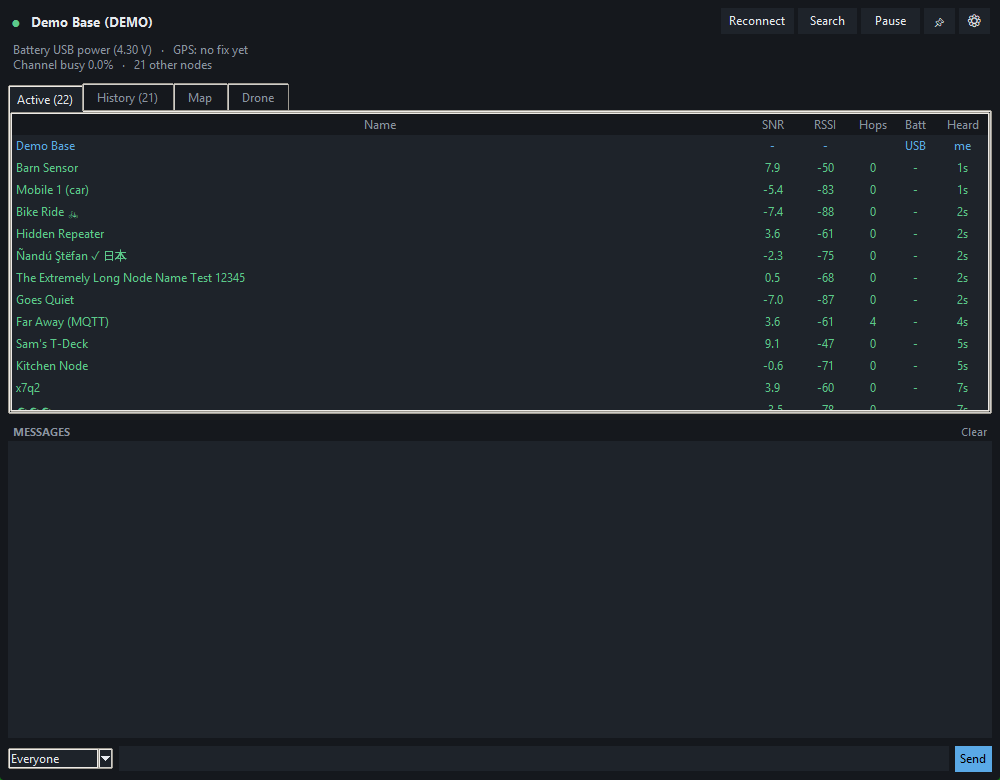
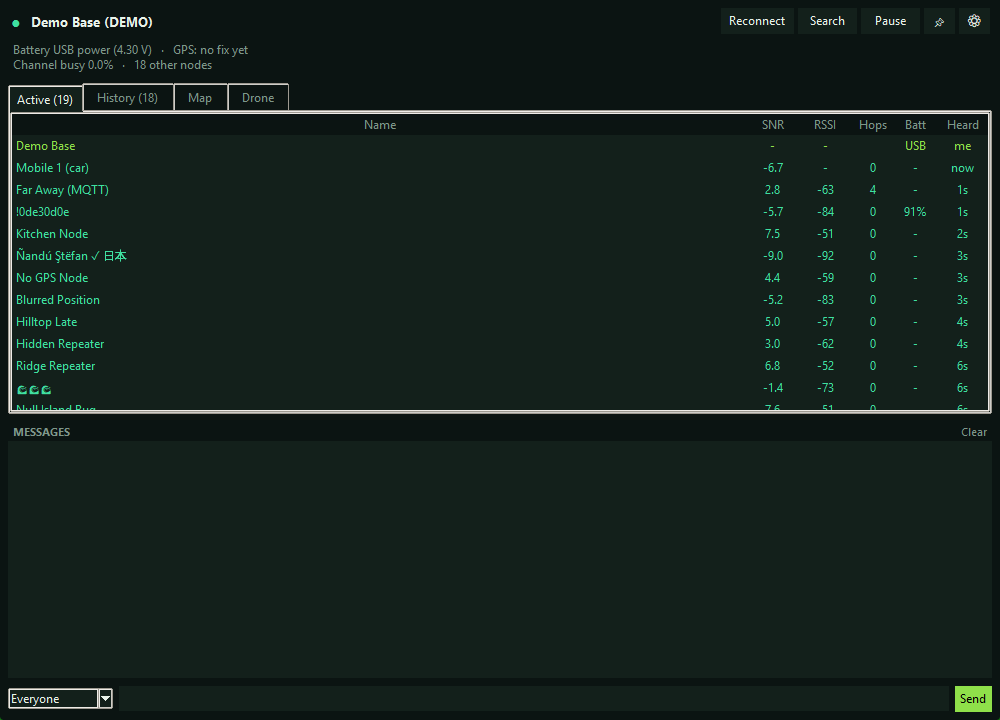
docs+packaging: Windows installer; mark macOS untested (pre-alpha backup)
- Add Inno Setup installer (installer/CentralFiniteCurve.iss) + publish.ps1 helper.
- README/CHANGELOG: Windows is the tested platform with a prebuilt installer; macOS
  is cross-platform source only and completely untested (no prebuilt .app yet).
- Keep live screenshot (docs/img/_live.png) out of git.

diff --git a/README.md b/README.md
@@ -10,6 +10,11 @@ drone's manufacturer looked up from its MAC address.
 
 > ⚠ **ALPHA.** This is early software under active development. Expect rough edges, and please
 > report issues. It is **free, open-source (GPL-3.0)** community software — never for sale.
+>
+> 🪟 **Windows is the tested platform.** 🍎 **macOS is completely untested** — the code is
+> cross-platform and *should* run from source, but it has not been run on a Mac at all yet. The
+> macOS source is published purely as a **pre-alpha backup**; assume nothing works there until a
+> Mac build is validated. There is **no prebuilt macOS app** yet — Mac users must run from source.
 
 ---
 
@@ -68,8 +73,9 @@ pip install -r requirements.txt
 python mesh_widget.pyw
 ```
 
-Prebuilt packages (a Windows installer and a macOS app) are attached to each
-[Release](../../releases) once CI has built them — no Python needed to run those.
+A prebuilt **Windows installer** (and a portable Windows zip) is attached to each
+[Release](../../releases) — no Python needed to run it. **macOS has no prebuilt app yet**
+and must be run from source (and is untested — see the alpha note above).
 
 First run: open **Settings** (gear) to pick your radio's port and set your home location. The
 widget talks to the radio; your location and config stay on your PC and are never sent to the mesh.
@@ -111,4 +117,6 @@ author. See [LICENSE](LICENSE).
 - Two heavy GUI timing tests (`test_demo_session`, `test_busy_city_scale`) are currently flaky —
   being investigated; core functionality tests pass.
 - The map uses online tiles; mind the providers' terms, and your data plan on cellular.
-- Tray/sound behaviour varies a little by OS; macOS packaging is validated by beta testing.
+- Tray/sound behaviour varies a little by OS.
+- **macOS is entirely unvalidated** — it has not been launched on a Mac yet. Treat the macOS
+  source as a pre-alpha backup, not a working build.

diff --git a/CHANGELOG.md b/CHANGELOG.md
@@ -10,8 +10,11 @@ First public alpha by DaGromflomite.
   plus a PNG snapshot of the map.
 - **Search** — pings quiet nodes (and the drone detector) so they re-announce immediately.
 - Optional phone push via ntfy; messages with delivery reports; system-tray; single-instance.
-- **Cross-platform:** runs on Windows and macOS (guarded Windows-only APIs; OS-aware default sound).
+- **Windows:** tested platform; prebuilt installer + portable zip provided.
+- **macOS:** cross-platform code is in place (guarded Windows-only APIs; OS-aware default sound),
+  but it is **completely untested — never launched on a Mac**. Published as a pre-alpha source
+  backup only; no prebuilt macOS app yet.
 - GPL-3.0; bundled IEEE OUI table for offline manufacturer lookups.
 
-Known issues: two heavy GUI timing tests are flaky and under investigation; macOS packaging is
-validated by beta testing.
+Known issues: two heavy GUI timing tests are flaky and under investigation; macOS is untested and
+has no prebuilt app (source-only, pre-alpha backup).
